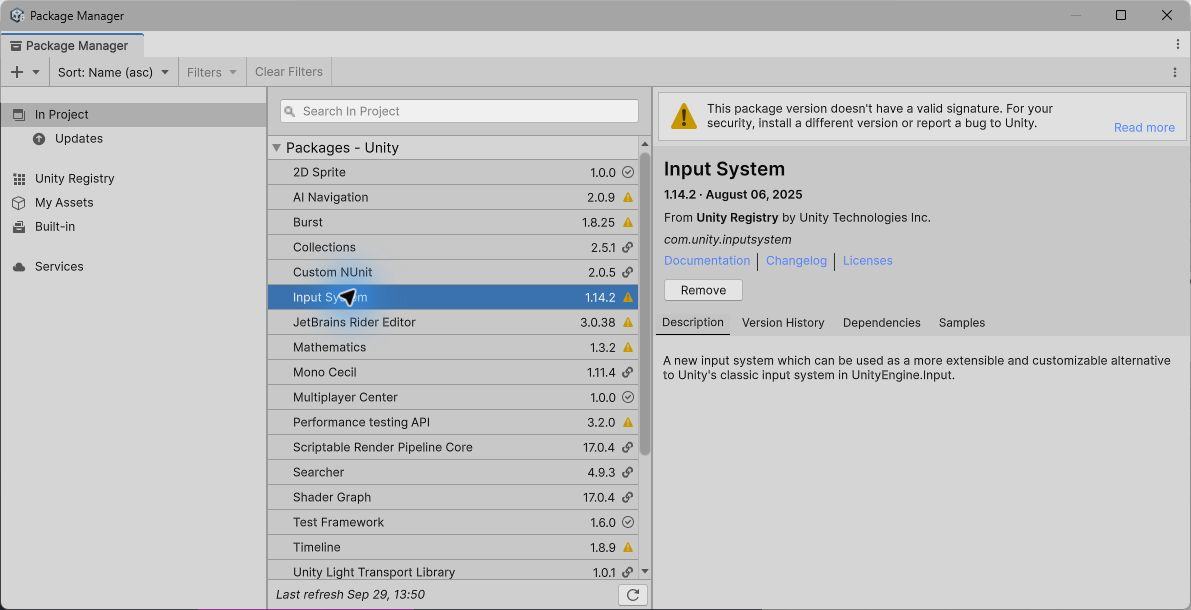
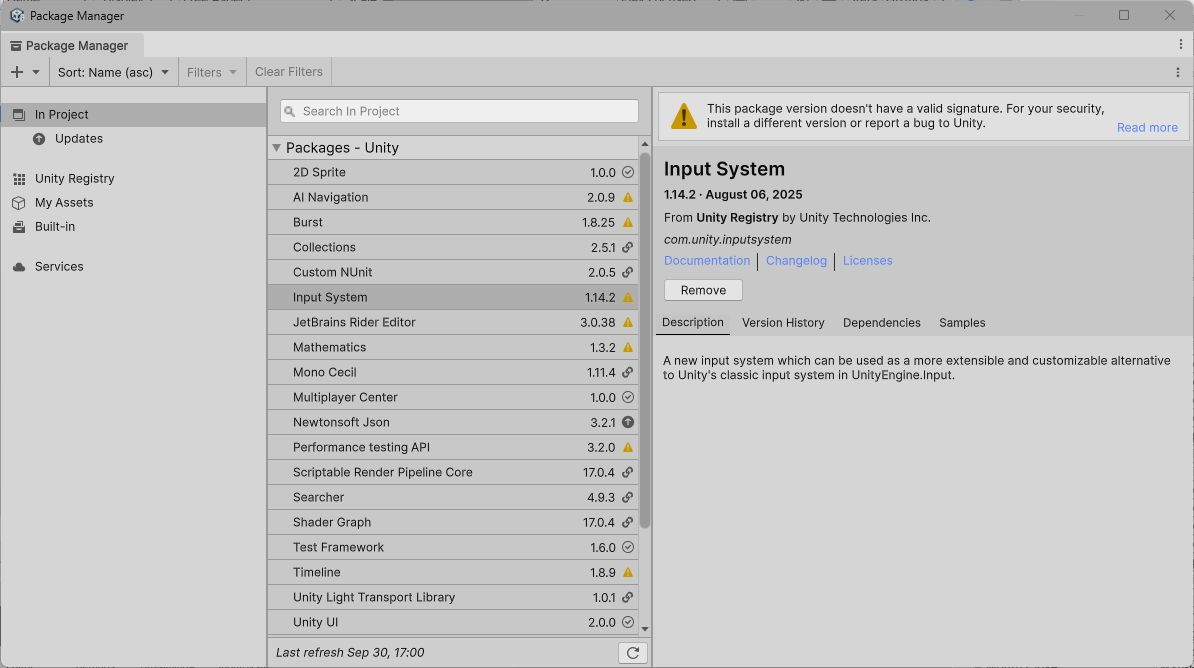
Recapture documentation screenshots without mouse pointers

diff --git a/audio-face-animator/docs/index.md b/audio-face-animator/docs/index.md
@@ -68,7 +68,7 @@ The Lite version has three generation limitations:
 Everything else — mapping, emotions, eyes, blinking, AnimationClip export — is
 the same in both.
 
-![Lite Face Animator with CPU selected, CPU readiness, and the orange banner explaining the five-second and Editor-only generation limits](/audio-face-animator/docs/img/face-animator-lite.png){: width="618" height="658"}
+![Lite Face Animator with CPU selected, CPU readiness, and the orange banner explaining the five-second and Editor-only generation limits](/audio-face-animator/docs/img/face-animator-lite.png){: width="625" height="658"}
 
 If you own the full version and still see a five-second cap or an orange
 **⚠ LITE VERSION** banner on the Face Animator, the model files did not arrive
@@ -99,7 +99,7 @@ Automatic startup checks common platform and model requirements. Select
 **Checks > NVIDIA GPU** separately for driver, GPU memory and TensorRT engine.
 Opening CPU diagnostics does not load the ONNX session.
 
-![CPU preflight ready to generate: Windows, synced model files, Full edition and CPU libraries passed; no CPU operation has run yet, and CPU logging uses Unity Console and Editor.log](/audio-face-animator/docs/img/preflight-cpu-ready.png){: width="562" height="582"}
+![CPU preflight ready to generate: Windows, synced model files, Full edition and CPU libraries passed; no CPU operation has run yet, and CPU logging uses Unity Console and Editor.log](/audio-face-animator/docs/img/preflight-cpu-ready.png){: width="570" height="582"}
 
 Before the first CPU generation, **CPU operation** can show **UNKNOWN** with
 “No CPU operation has completed in this domain.” This is operation history,
@@ -302,7 +302,7 @@ Add it to the character root and drag every mapper into **Blendshapes
 Configuration → Blends Mappers**. Any renderer whose mapper is not listed will
 not move.
 
-![Blends Mappers expanded with five assigned Face Blends Mapper components on JamesModel](/audio-face-animator/docs/img/face-animator-blends-mappers.png){: width="428" height="175"}
+![Blends Mappers expanded with five assigned Face Blends Mapper components on JamesModel](/audio-face-animator/docs/img/face-animator-blends-mappers.png){: width="428" height="170"}
 
 ## Generate animation in Editor
 
@@ -373,7 +373,7 @@ For the sample's buttons, install **Input System** (`com.unity.inputsystem`
 1.14.2) through **Window → Package Manager**. Without it, the scene's
 `EventSystem` has a missing UI component and buttons may not respond.
 
-[![Package Manager showing Input System 1.14.2 installed under In Project; this capture also shows Unity's package signature warning](/audio-face-animator/docs/img/input-system-package-manager.png){: width="1191" height="610"}](/audio-face-animator/docs/img/input-system-package-manager.png)
+[![Package Manager showing Input System 1.14.2 installed under In Project; this capture also shows Unity's package signature warning](/audio-face-animator/docs/img/input-system-package-manager.png){: width="1194" height="668"}](/audio-face-animator/docs/img/input-system-package-manager.png)
 
 *Input System 1.14.2 in Package Manager. The capture also shows a package
 signature warning from this Editor; it does not demonstrate a clean signature check.*
